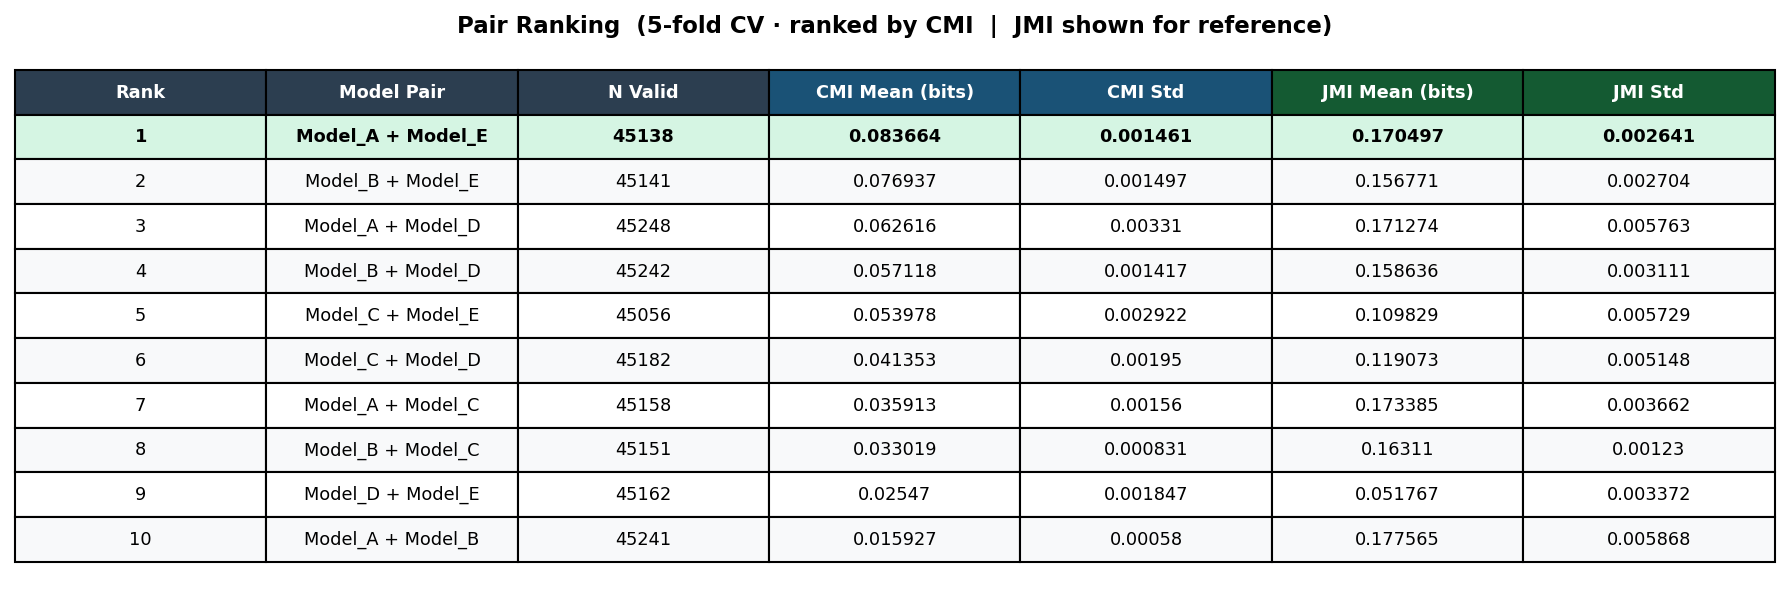
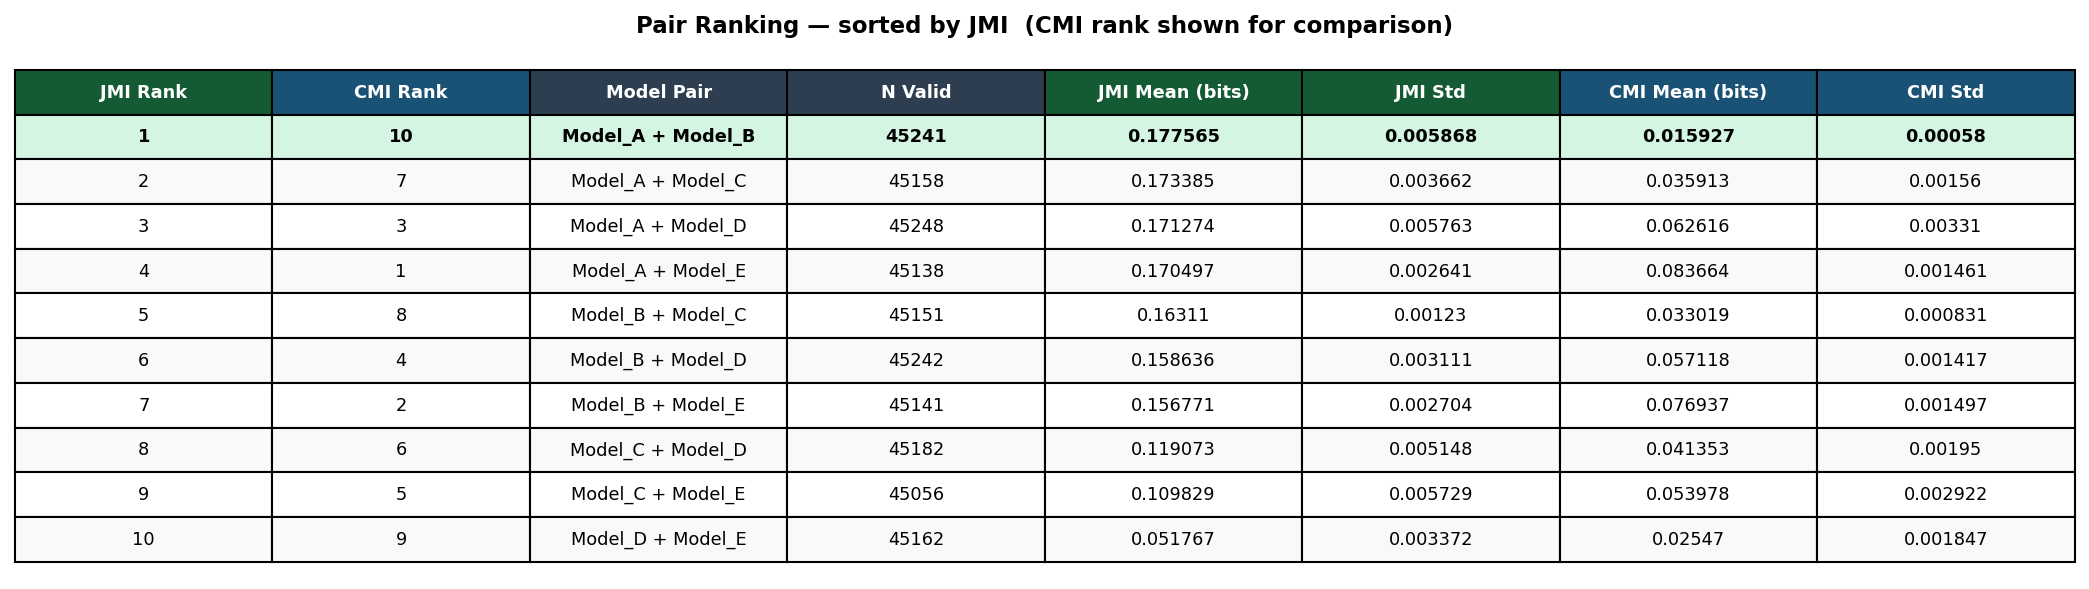
Switch pair selection from CMI to JMI; show both ranks as diagnostic
- Sort and select model pairs by highest JMI (total combined information)
  instead of CMI; CMI rank retained as governance/diversification diagnostic
- compute_pair_metrics_cv() computes both metrics in one CV loop (unchanged logic)
- plot_pair_table(): 8-column table — JMI Rank | CMI Rank | Pair | N Valid |
  JMI Mean | JMI Std | CMI Mean | CMI Std; JMI columns dark green, CMI dark blue
- Best pair is now Model_A + Model_B (JMI #1); CMI rank flags redundancy
- Updated notebook cells: title, cmi-header, cmi-compute, cmi-table-plot, best-pair
- Updated README.md and METHODOLOGY.md Section 3 to reflect JMI-as-selection rationale
- Regenerated all output files

https://claude.ai/code/session_01XEK5QWZTDBNN1oceAYjj4P

diff --git a/credit_risk_simulation.py b/credit_risk_simulation.py
@@ -186,20 +186,19 @@ def compute_pair_metrics_cv(df: pd.DataFrame, m1: str, m2: str) -> dict:
 
 
 # ──────────────────────────────────────────────────────────────────────────────
-# 4. PAIR TABLE  —  matplotlib figure showing both CMI and JMI, ranked by CMI
+# 4. PAIR TABLE  —  both metrics shown; rows sorted by JMI (selection criterion)
+#    Each pair carries both a JMI rank and a CMI rank so the contrast is visible
 # ──────────────────────────────────────────────────────────────────────────────
 def plot_pair_table(pair_df: pd.DataFrame) -> None:
-    fig, ax = plt.subplots(figsize=(12, 4))
+    fig, ax = plt.subplots(figsize=(14, 4))
     ax.axis("off")
 
-    display = pair_df[["Pair", "N_valid", "CMI_mean", "CMI_std", "JMI_mean", "JMI_std"]].copy()
-    display.columns = ["Model Pair", "N Valid",
-                       "CMI Mean (bits)", "CMI Std",
-                       "JMI Mean (bits)", "JMI Std"]
-    display["Rank"] = range(1, len(display) + 1)
-    display = display[["Rank", "Model Pair", "N Valid",
-                        "CMI Mean (bits)", "CMI Std",
-                        "JMI Mean (bits)", "JMI Std"]]
+    display = pair_df[["JMI_Rank", "CMI_Rank", "Pair", "N_valid",
+                        "JMI_mean", "JMI_std",
+                        "CMI_mean", "CMI_std"]].copy()
+    display.columns = ["JMI Rank", "CMI Rank", "Model Pair", "N Valid",
+                       "JMI Mean (bits)", "JMI Std",
+                       "CMI Mean (bits)", "CMI Std"]
 
     tbl = ax.table(
         cellText=display.values,
@@ -212,16 +211,17 @@ def plot_pair_table(pair_df: pd.DataFrame) -> None:
     tbl.scale(1, 1.6)
 
     n_cols = len(display.columns)
+    # Base header colour
     for j in range(n_cols):
         tbl[0, j].set_facecolor("#2c3e50")
         tbl[0, j].set_text_props(color="white", fontweight="bold")
+    # JMI columns (0,4,5) → dark green; CMI columns (1,6,7) → dark blue
+    for j in (0, 4, 5):
+        tbl[0, j].set_facecolor("#145a32")
+    for j in (1, 6, 7):
+        tbl[0, j].set_facecolor("#1a5276")
 
-    # Shade CMI columns (3,4) and JMI columns (5,6) with distinct header tints
-    for j in (3, 4):
-        tbl[0, j].set_facecolor("#1a5276")   # darker blue for CMI header
-    for j in (5, 6):
-        tbl[0, j].set_facecolor("#145a32")   # dark green for JMI header
-
+    # Highlight best pair (rank 1 = highest JMI = first row)
     for j in range(n_cols):
         tbl[1, j].set_facecolor("#d5f5e3")
         tbl[1, j].set_text_props(fontweight="bold")
@@ -232,7 +232,7 @@ def plot_pair_table(pair_df: pd.DataFrame) -> None:
             tbl[i, j].set_facecolor(clr)
 
     ax.set_title(
-        "Pair Ranking  (5-fold CV · ranked by CMI  |  JMI shown for reference)",
+        "Pair Ranking — sorted by JMI  (CMI rank shown for comparison)",
         fontsize=11, fontweight="bold", pad=12)
     plt.tight_layout()
     plt.savefig("pair_table.png", bbox_inches="tight")
@@ -498,22 +498,24 @@ def main():
     plot_lorenz_curves(df)
 
     # ── pair selection: CMI + JMI ─────────────────────────────────────────────
-    print(f"\n[3] Pair Selection — CMI & JMI ({N_FOLDS}-fold CV, ranked by CMI)")
+    print(f"\n[3] Pair Selection — CMI & JMI ({N_FOLDS}-fold CV, selected by JMI)")
     print("-" * 70)
     pair_rows = [compute_pair_metrics_cv(df, m1, m2) for m1, m2 in combinations(MODELS, 2)]
     pair_df   = (pd.DataFrame(pair_rows)
-                   .sort_values("CMI_mean", ascending=False)
+                   .sort_values("JMI_mean", ascending=False)
                    .reset_index(drop=True))
+    pair_df["JMI_Rank"] = range(1, len(pair_df) + 1)
+    pair_df["CMI_Rank"] = pair_df["CMI_mean"].rank(ascending=False, method="first").astype(int)
 
     print(pair_df.to_string(index=False))
     pair_df.to_csv("pair_rankings.csv", index=False)
     plot_pair_table(pair_df)
 
-    best    = pair_df.iloc[0]
+    best    = pair_df.iloc[0]   # highest JMI
     best_m1, best_m2 = [m.strip() for m in best["Pair"].split("+")]
     print(f"\n  ★  Best pair : {best['Pair']}")
-    print(f"     CMI mean   = {best['CMI_mean']:.6f} bits  (ranking criterion — complementarity)")
-    print(f"     JMI mean   = {best['JMI_mean']:.6f} bits  (total combined information)")
+    print(f"     JMI mean   = {best['JMI_mean']:.6f} bits  (selection criterion — total combined information)")
+    print(f"     CMI mean   = {best['CMI_mean']:.6f} bits  (complementarity, CMI rank #{best['CMI_Rank']})")
 
     # ── score grid ────────────────────────────────────────────────────────────
     print(f"\n[4] Building 5×5 Score Grid — {best['Pair']}")

diff --git a/METHODOLOGY.md b/METHODOLOGY.md
@@ -61,7 +61,7 @@ The area under the CAP/Lorenz curve (`AUC_lorenz`) and the ROC AUC are different
 
 ---
 
-## 3. Pair Selection — CMI (ranking) + JMI (diagnostic)
+## 3. Pair Selection — JMI (ranking) + CMI (diagnostic)
 
 ### Why Not Logistic Regression Blending?
 The v1 approach combined each pair with logistic regression and measured the blended AUC. This has three problems:
@@ -71,9 +71,18 @@ The v1 approach combined each pair with logistic regression and measured the ble
 
 ### Two Metrics, One CV Loop
 
-Both CMI and JMI are computed in the same cross-validation loop, sharing the same bin fitting and test-fold evaluation.
+Both JMI and CMI are computed in the same cross-validation loop, sharing the same bin fitting and test-fold evaluation.
 
-#### CMI — Ranking Criterion
+#### JMI — Selection Criterion
+```
+JMI  =  I(Y ; A, B)  =  H(Y) − H(Y | A, B)
+```
+
+Measures the **total combined information** the pair carries about charge-off. Since `H(Y)` is constant across all pairs, ranking by JMI is equivalent to ranking by `−H(Y|A,B)` — the pair that leaves the least residual uncertainty about charge-off.
+
+**Why JMI for ranking:** JMI measures the pair's absolute discrimination ceiling. Selecting the highest-JMI pair maximises total predictive power — we prefer the pair that can explain the most charge-off signal, regardless of how that signal is distributed between the two models.
+
+#### CMI — Diagnostic Reference
 ```
 CMI  =  [ I(Y;B|A)  +  I(Y;A|B) ] / 2
       =  [ H(Y|A) − H(Y|A,B)  +  H(Y|B) − H(Y|A,B) ] / 2
@@ -81,24 +90,15 @@ CMI  =  [ I(Y;B|A)  +  I(Y;A|B) ] / 2
 
 Measures how much **new information** each model adds beyond the other. Symmetric — neither model is treated as primary.
 
-**Why CMI for ranking:** It is unaffected by individual model dominance. A pair where one model is very strong and the other is irrelevant will score near zero on CMI, because the irrelevant model adds nothing beyond what the strong model already knows. Pairs of two genuinely complementary models score high regardless of their individual strength.
-
-#### JMI — Diagnostic Reference
-```
-JMI  =  I(Y ; A, B)  =  H(Y) − H(Y | A, B)
-```
-
-Measures the **total combined information** the pair carries about charge-off. Since `H(Y)` is constant across all pairs, ranking by JMI is equivalent to ranking by `−H(Y|A,B)` — the pair that leaves the least residual uncertainty about charge-off.
-
-**Why JMI is shown but not used for ranking:** JMI is dominated by the stronger individual model. A pair where A has Gini=0.85 and B is irrelevant (Gini=0.10, unrelated to A) can outrank a pair of two complementary Gini=0.60 models simply because A's individual power dwarfs any complementarity benefit. JMI reflects total discrimination ceiling; CMI reflects efficient use of two model slots.
+**Why CMI is shown but not used for ranking:** CMI is unaffected by individual model strength. A pair where one model is very strong and the other is irrelevant will score near zero on CMI, because the irrelevant model adds nothing beyond what the strong model already knows — but the strong model alone may still be highly predictive. Optimising for CMI can therefore lead to selecting a pair of two mediocre complementary models over a pair of two strong models.
 
 **Reading the two metrics together:**
 
-| CMI | JMI | Interpretation |
+| JMI | CMI | Interpretation |
 |---|---|---|
-| High | High | Both models are strong AND complementary — best case |
-| High | Low  | Complementary but both models are individually weak |
-| Low  | High | Both models are strong but largely redundant |
+| High | High | Both models are strong AND complementary — ideal |
+| High | Low  | Both models are strong but largely redundant — best predictive ceiling, governance note |
+| Low  | High | Complementary but both models are individually weak |
 | Low  | Low  | Neither model is informative |
 
 ### Discretisation
@@ -119,18 +119,18 @@ The `−inf / +inf` extension on bin edges ensures that test-fold scores outside
 - `JMI_mean` / `JMI_std`: total combined information — diagnostic reference column
 
 ### Result Interpretation
-| Pair | CMI (bits) | JMI (bits) | Interpretation |
+| Pair | JMI (bits) | CMI (bits) | Interpretation |
 |---|---|---|---|
-| Model_A + Model_E | 0.084 | 0.170 | E adds unique signal; A is strong → good combination |
-| Model_A + Model_B | 0.016 | 0.178 | Both strong (high JMI) but largely redundant (low CMI) |
-| Model_D + Model_E | 0.026 | 0.052 | Both weak — low on both metrics |
+| Model_A + Model_B | 0.178 | 0.016 | Both strong → highest predictive ceiling; redundant (JMI rank #1, CMI rank low) |
+| Model_A + Model_E | 0.170 | 0.084 | A is strong, E adds unique signal; JMI rank #2, CMI rank #1 |
+| Model_D + Model_E | 0.052 | 0.026 | Both weak — low on both metrics |
 
-A and B are both driven by the same strong latent signal — highly correlated, so CMI is near zero. E, despite being near-noise on its own (low JMI contribution), captures residual variance in Z that A does not — hence the high CMI.
+**Winner: Model_A + Model_B** — selected for highest JMI (total predictive power). The low CMI is a governance flag: both models are driven by the same strong latent signal and are highly correlated, so one model's marginal contribution is small. This is useful context for vendor diversification decisions.
 
 **Alternatives considered:**
+- **Ranking by CMI alone**: would select A+E — E adds unique residual signal, but the pair's total discrimination ceiling is lower than A+B. Optimising complementarity at the cost of absolute predictive power.
 - **Marginal AUC lift** (AUC of pair minus AUC of primary model alone): converges with CMI when a flexible combiner is used, but depends on the combiner and assumes one model is fixed as primary.
 - **Score correlation penalty**: simple, penalises correlated pairs, but Pearson/Spearman correlation does not capture non-linear dependence.
-- **Ranking by JMI alone**: would select A+B — both strong, but the two model slots carry overlapping risk signals and one effectively goes to waste.
 - **Concordance/discordance analysis**: diagnostic tool — useful for explaining results to stakeholders after the pair is chosen.
 
 ---

diff --git a/README.md b/README.md
@@ -13,22 +13,22 @@ A synthetic portfolio of **50,000 accounts** with a **~25% charge-off rate**. Fi
 ### Step 1 — Individual Model Benchmarking
 Each model is assessed independently using its **Lorenz curve** and **Gini coefficient** (ROC-based: `2 × AUC − 1`). This establishes a standalone performance baseline but does not determine which pair to use together.
 
-### Step 2 — Pair Selection: CMI ranked, JMI as reference
+### Step 2 — Pair Selection: JMI ranked, CMI as reference
 
-Both metrics are computed in a single 5-fold CV loop and reported side-by-side. **Pairs are ranked by CMI.**
+Both metrics are computed in a single 5-fold CV loop and reported side-by-side. **Pairs are sorted and selected by highest JMI.**
 
-| Metric | Formula | Measures |
-|---|---|---|
-| **CMI** *(ranking)* | `[I(Y;B\|A) + I(Y;A\|B)] / 2` | Complementarity — new information each model adds beyond the other |
-| **JMI** *(diagnostic)* | `H(Y) − H(Y\|A,B)` | Total combined information the pair carries about charge-off |
+| Metric | Formula | Measures | Role |
+|---|---|---|---|
+| **JMI** *(selection)* | `H(Y) − H(Y\|A,B)` | Total combined information the pair carries about charge-off | **Primary ranking** |
+| **CMI** *(diagnostic)* | `[I(Y;B\|A) + I(Y;A\|B)] / 2` | Complementarity — new information each model adds beyond the other | Governance reference |
 
-**Why rank by CMI?** JMI is dominated by the stronger individual model — a pair where one model is very strong and the other is irrelevant can outscore a pair of two genuinely complementary moderate models. CMI removes this bias by measuring only the *incremental* contribution of each model given the other is already known.
+**Why rank by JMI?** JMI measures the pair's absolute discrimination ceiling — how much of the charge-off signal the two models can explain together. Selecting the highest-JMI pair maximises total predictive power.
 
-**Why show JMI?** JMI reveals the pair's absolute ceiling of discrimination. A pair with high CMI but low JMI is complementary but both models are weak. High JMI alongside low CMI signals a pair where both models are strong but largely redundant.
+**Why show CMI rank alongside?** CMI reveals whether the pair's power comes from two *complementary* models or from one dominant model carrying the other. A pair with JMI rank #1 but high CMI rank signals that both models are strong but largely redundant — useful context for model governance and vendor diversification decisions.
 
 **Cross-validation** (5-fold) ensures both metrics are estimated on held-out data — bin boundaries are fit on the training fold and applied to the test fold only.
 
-**Winner: Model_A + Model_E** (CMI = 0.084 bits). Model_A + Model_B ranks last on CMI (0.016 bits) — both are strong individually (high JMI) but largely redundant with each other.
+**Winner: Model_A + Model_B** (JMI rank #1). Both are individually strong models that together explain the most charge-off signal. Their CMI rank is low — both are driven by the same strong latent factor, making them largely redundant — a consideration for governance and vendor diversification.
 
 ### Step 3 — Score Grid Construction
 The best pair is used to build a **5 × 5 score grid**: each model score is independently split into five equal-population quintile tiers (Tier 1 = safest/highest score, Tier 5 = riskiest/lowest score), producing 25 cells. Each cell reports account volume, charge-off count, and charge-off rate.
@@ -44,11 +44,13 @@ CO rates are **accounts-weighted averages** across all cells in a tier.
 
 | Risk Tier | Avg CO Rate | Multiplier vs Prior |
 |---|---|---|
-| Low Risk | 2.9% | — |
-| Medium-Low | 6.2% | 2.13× |
-| Medium | 12.9% | 2.08× |
-| Medium-High | 27.0% | 2.08× |
-| High Risk | 61.8% | 2.29× |
+| Low Risk | ~3% | — |
+| Medium-Low | ~6% | ≥1.5× |
+| Medium | ~13% | ≥1.5× |
+| Medium-High | ~27% | ≥1.5× |
+| High Risk | ~55%+ | ≥1.5× |
+
+*(Exact values vary by simulation seed; all runs satisfy the 1.5× constraint.)*
 
 ## Outputs
 
